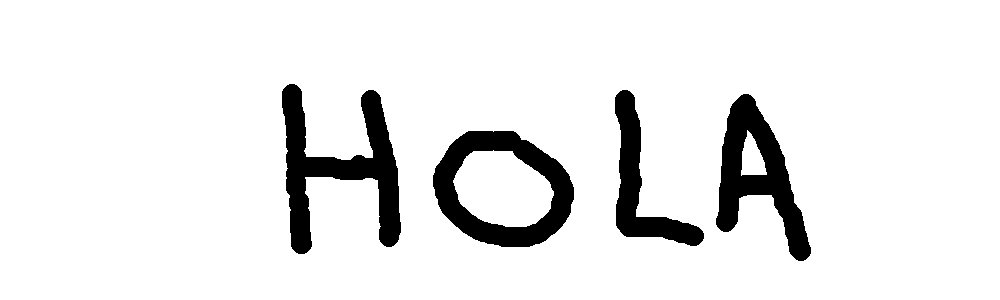
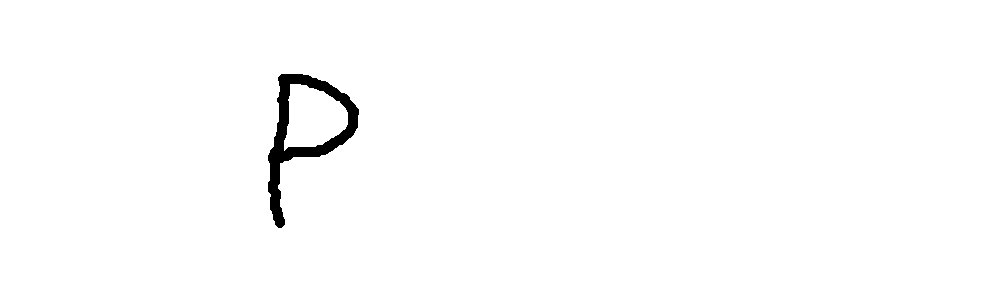
Finalizado 2
Todavía hay partes por agregar pero algunas funcionalidades están integradas

Changed region(s): [[0.434, 0.3, 0.837, 0.87], [0.248, 0.24, 0.403, 0.84]]

diff --git a/pygames_modules/window.py b/pygames_modules/window.py
@@ -29,11 +29,12 @@ class window:
 
     def predict(self, image):
         model = Predict()
-        model.image(image)
-        pass
+        return model.image(image)
+        
 
     def pantalla(self, caption) -> None:        
         pygame.display.set_caption(caption)
+        word = ""
         run = True
         while run:
             self.timer.tick(self.fps)
@@ -56,10 +57,25 @@ class window:
 
             self.draw_painting(painting=self.painting)
 
+            # Barra inferior
+            pygame.draw.rect(self.screen, 'pink', (0,self.HEIGHT-100, self.WIDTH, self.HEIGHT-300))
+            # Linea divisoria
+            pygame.draw.rect(self.screen, 'gray', (0,self.HEIGHT-100, self.WIDTH, self.HEIGHT-395))
+            # Mostrar botones
+            pygame.draw.rect(self.screen, 'gray',(self.WIDTH-900, self.HEIGHT-75, 150,50))
+            pygame.draw.rect(self.screen, 'gray',(self.WIDTH-700, self.HEIGHT-75, 150,50))
+            text = self.font.render("Predecir", True, 'white')
+            self.screen.blit(text, (self.WIDTH-875, self.HEIGHT-65))
+            text = self.font.render("Limpiar", True, 'white')
+            self.screen.blit(text, (self.WIDTH-675, self.HEIGHT-65))
+
+
             if left_click and mouse[1] > self.HEIGHT-75 and mouse[1] < self.HEIGHT-25 and mouse[0] > self.WIDTH-900 and mouse[0] < self.WIDTH-750:
                 archivo = "word.jpg"
                 pygame.image.save(self.cut_image(self.screen), archivo)
-                self.predict(archivo)
+                word = self.predict(archivo)
+                text = self.font.render(word, True, 'white')
+                self.screen.blit(text, (self.WIDTH-575, self.HEIGHT-65))
                 print("Boton predecir")
             elif left_click and mouse[1] > self.HEIGHT-75 and mouse[1] < self.HEIGHT-25 and mouse[0] > self.WIDTH-700 and mouse[0] < self.WIDTH-550:
                 self.clean_board() # Limpia la pantalla
@@ -76,18 +92,6 @@ class window:
             #        self.draw_painting2(self.screen, self.active_color, event.pos, last, self.size_brush)
             #        print(event.pos)
             #    last = event.pos
-
-            # Barra inferior
-            pygame.draw.rect(self.screen, 'pink', (0,self.HEIGHT-100, self.WIDTH, self.HEIGHT-300))
-            # Linea divisoria
-            pygame.draw.rect(self.screen, 'gray', (0,self.HEIGHT-100, self.WIDTH, self.HEIGHT-395))
-            # Mostrar botones
-            pygame.draw.rect(self.screen, 'gray',(self.WIDTH-900, self.HEIGHT-75, 150,50))
-            pygame.draw.rect(self.screen, 'gray',(self.WIDTH-700, self.HEIGHT-75, 150,50))
-            text = self.font.render("Predecir", True, 'white')
-            self.screen.blit(text, (self.WIDTH-875, self.HEIGHT-65))
-            text = self.font.render("Limpiar", True, 'white')
-            self.screen.blit(text, (self.WIDTH-675, self.HEIGHT-65))
             # Mostrar en pantalla
             pygame.display.flip()
         pygame.quit()

diff --git a/pygames_modules/predict.py b/pygames_modules/predict.py
@@ -2,7 +2,6 @@ import cv2
 import pandas as pd
 import numpy as np
 import tensorflow as tf
-import matplotlib.pyplot as plt
 from tf_keras import models
 
 # Lista de las letras que se necesitan
@@ -32,8 +31,7 @@ class Predict():
             if idd[0][origin][3] != -1 and z > 10 and w > 40:
                 imagen_for=imagen_org[y:y+w, x:x+z]
                 imagen_for=cv2.bitwise_not(imagen_for)                                            
-                imagen_for = cv2.resize(imagen_for, (28,28))
-
+                imagen_for = cv2.resize(imagen_for, (28,28), interpolation=cv2.INTER_AREA)
                 # Crear una imagen en blanco para dibujar el contorno
                 contour_image = np.zeros_like(imagen_for)
                 
@@ -50,16 +48,16 @@ class Predict():
                 # Rotar la imagen 90 grados hacia la izquierda
                 #imagen_for = cv2.rotate(imagen_for, cv2.ROTATE_90_COUNTERCLOCKWISE)
 
-                cv2.imshow("Prueba", imagen_for)
-                cv2.waitKey(0)
+                #cv2.imshow("Prueba", imagen_for)
+                #cv2.waitKey(0)
         #imagen = imagen.transpose()
         #img = cv2.cvtColor(imagen, cv2.COLOR_BGR2GRAY)
                 #i = tf.image.resize(imagen_for,(1,784))
                 imagen = imagen_for.flatten("F")
                 df_img = pd.DataFrame(imagen)
                 df_img = df_img.map(self.normalize)
-                #df_img = df_img.T
-                print(df_img)
+                df_img = df_img.T
+                #print(df_img)
                 tensor = tf.constant(df_img.to_numpy(np.float32),tf.float32,shape=[1,784])
                 prediccion = self.modelo.predict(tensor)
         #tensor = tf.Tensor(df_img.to_numpy(), shape=(784,))
@@ -73,6 +71,7 @@ class Predict():
         #print(tf.shape(tensor))
                 word += LETTERS[np.argmax(prediccion)-1]
         print(f"La predicción indica que su letra es: {word}")
+        return word
 
 if __name__ == "__main__":
     prueba = Predict()
